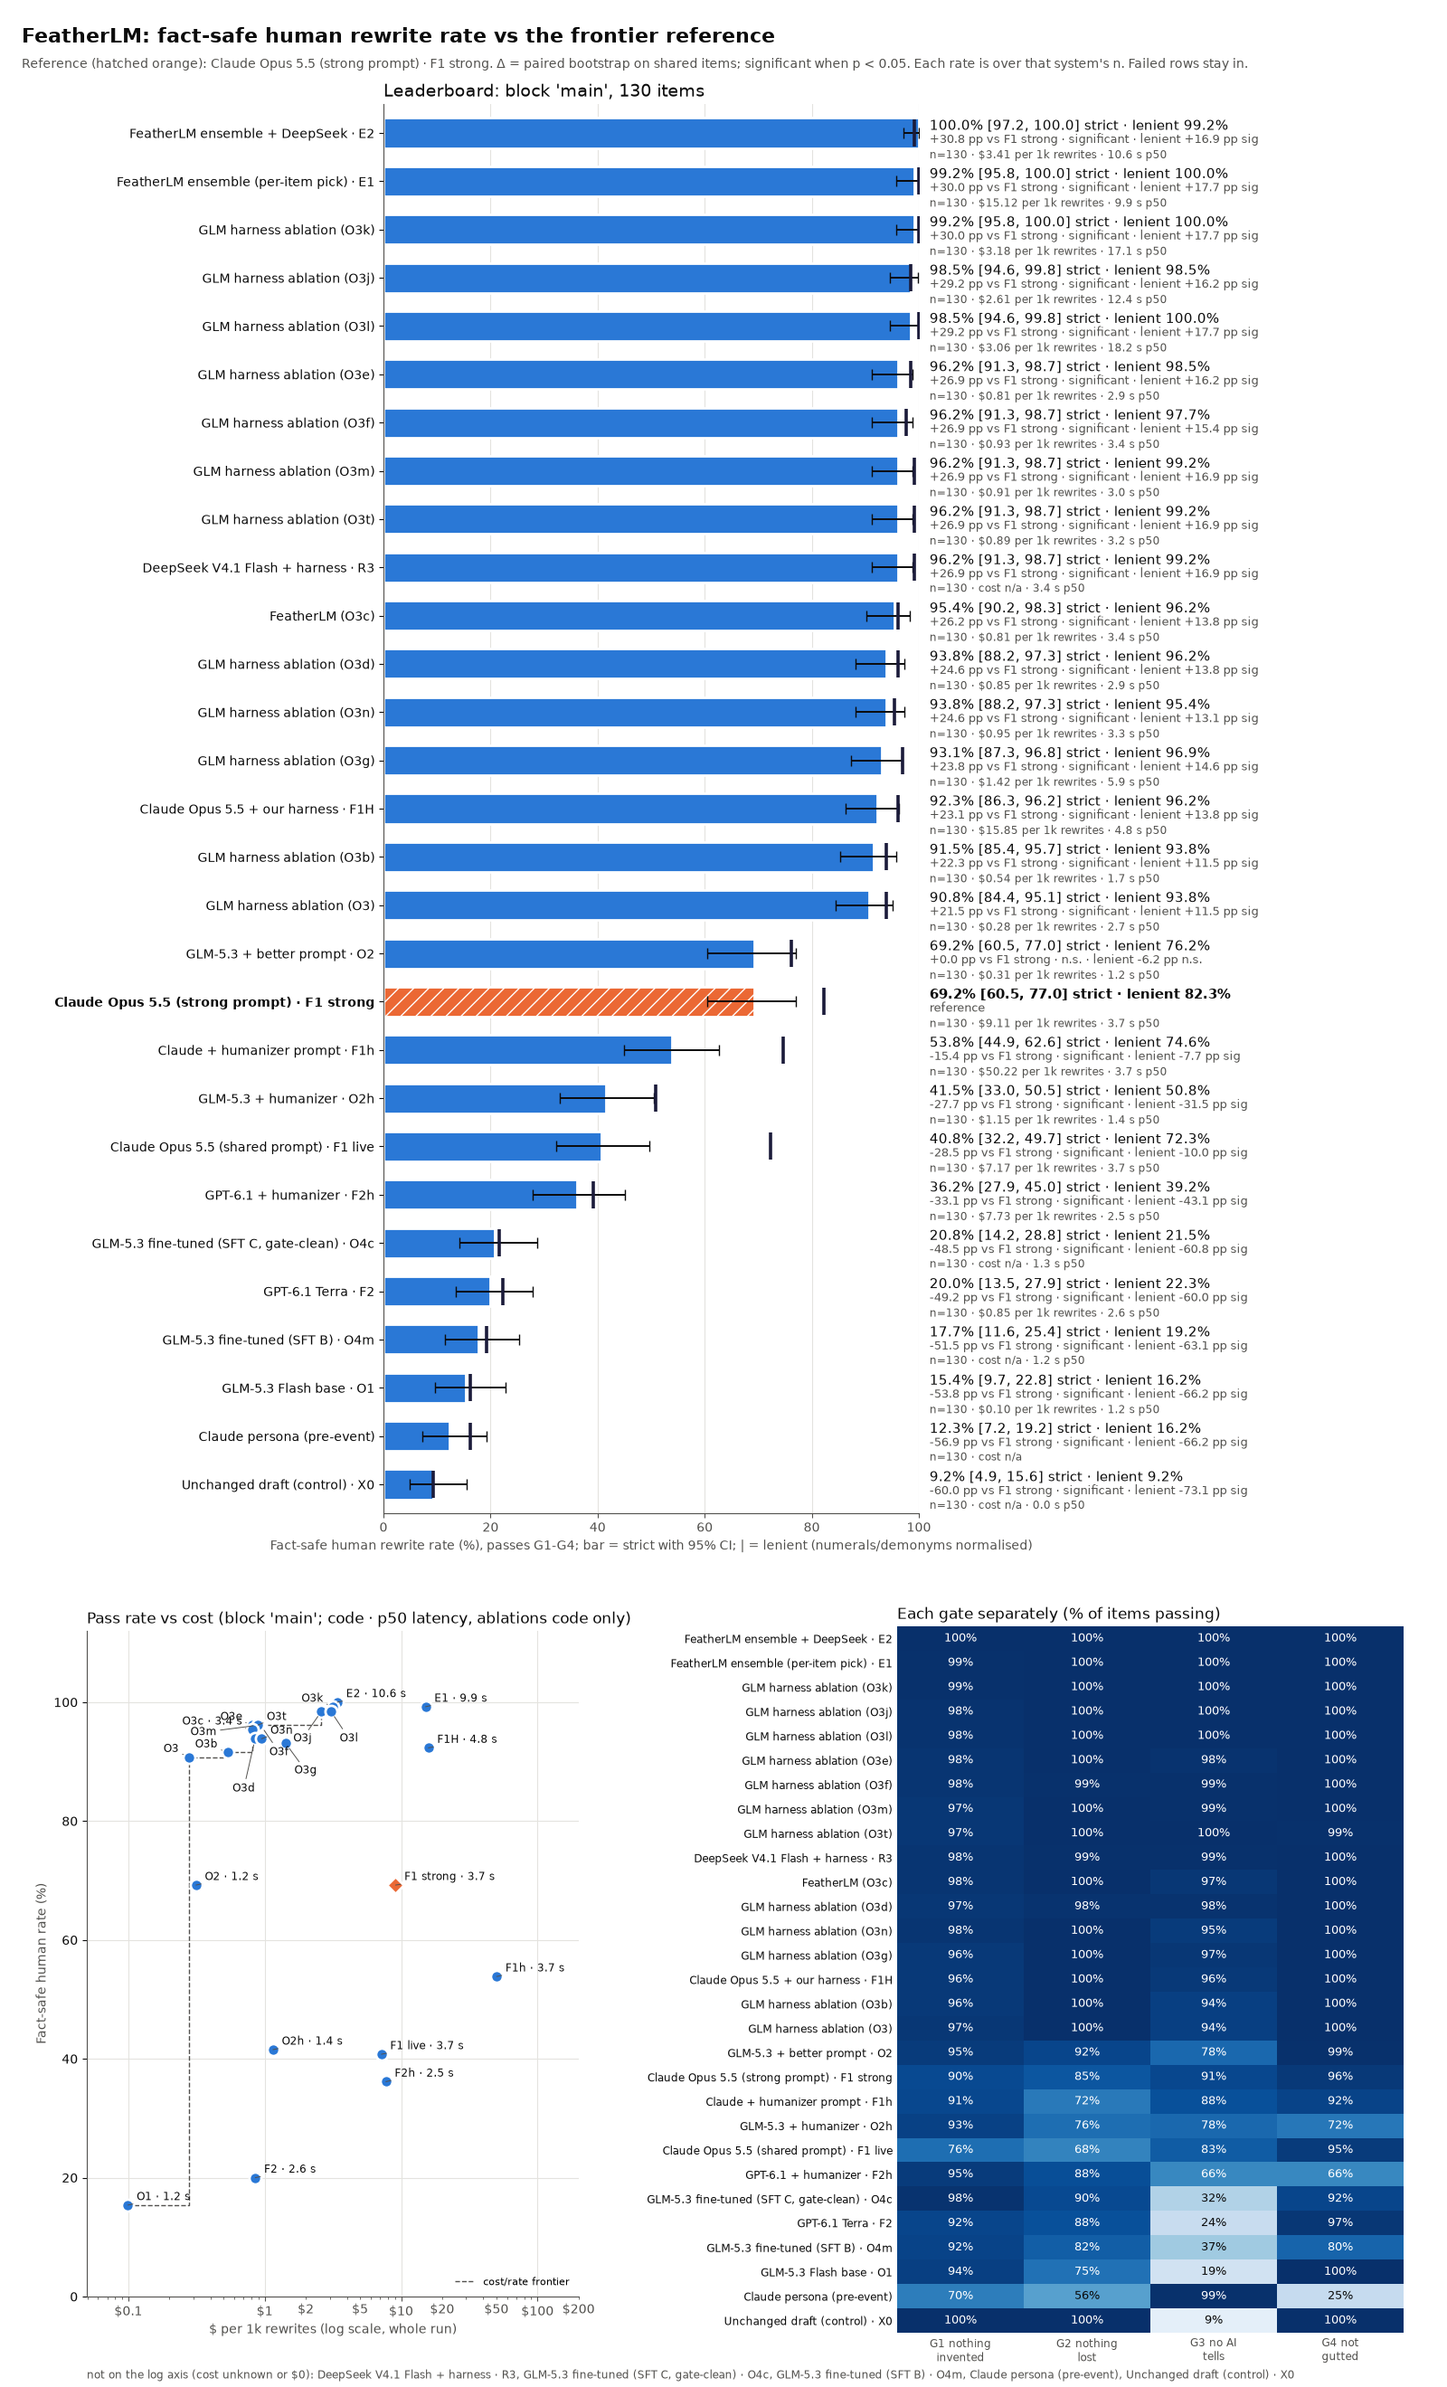
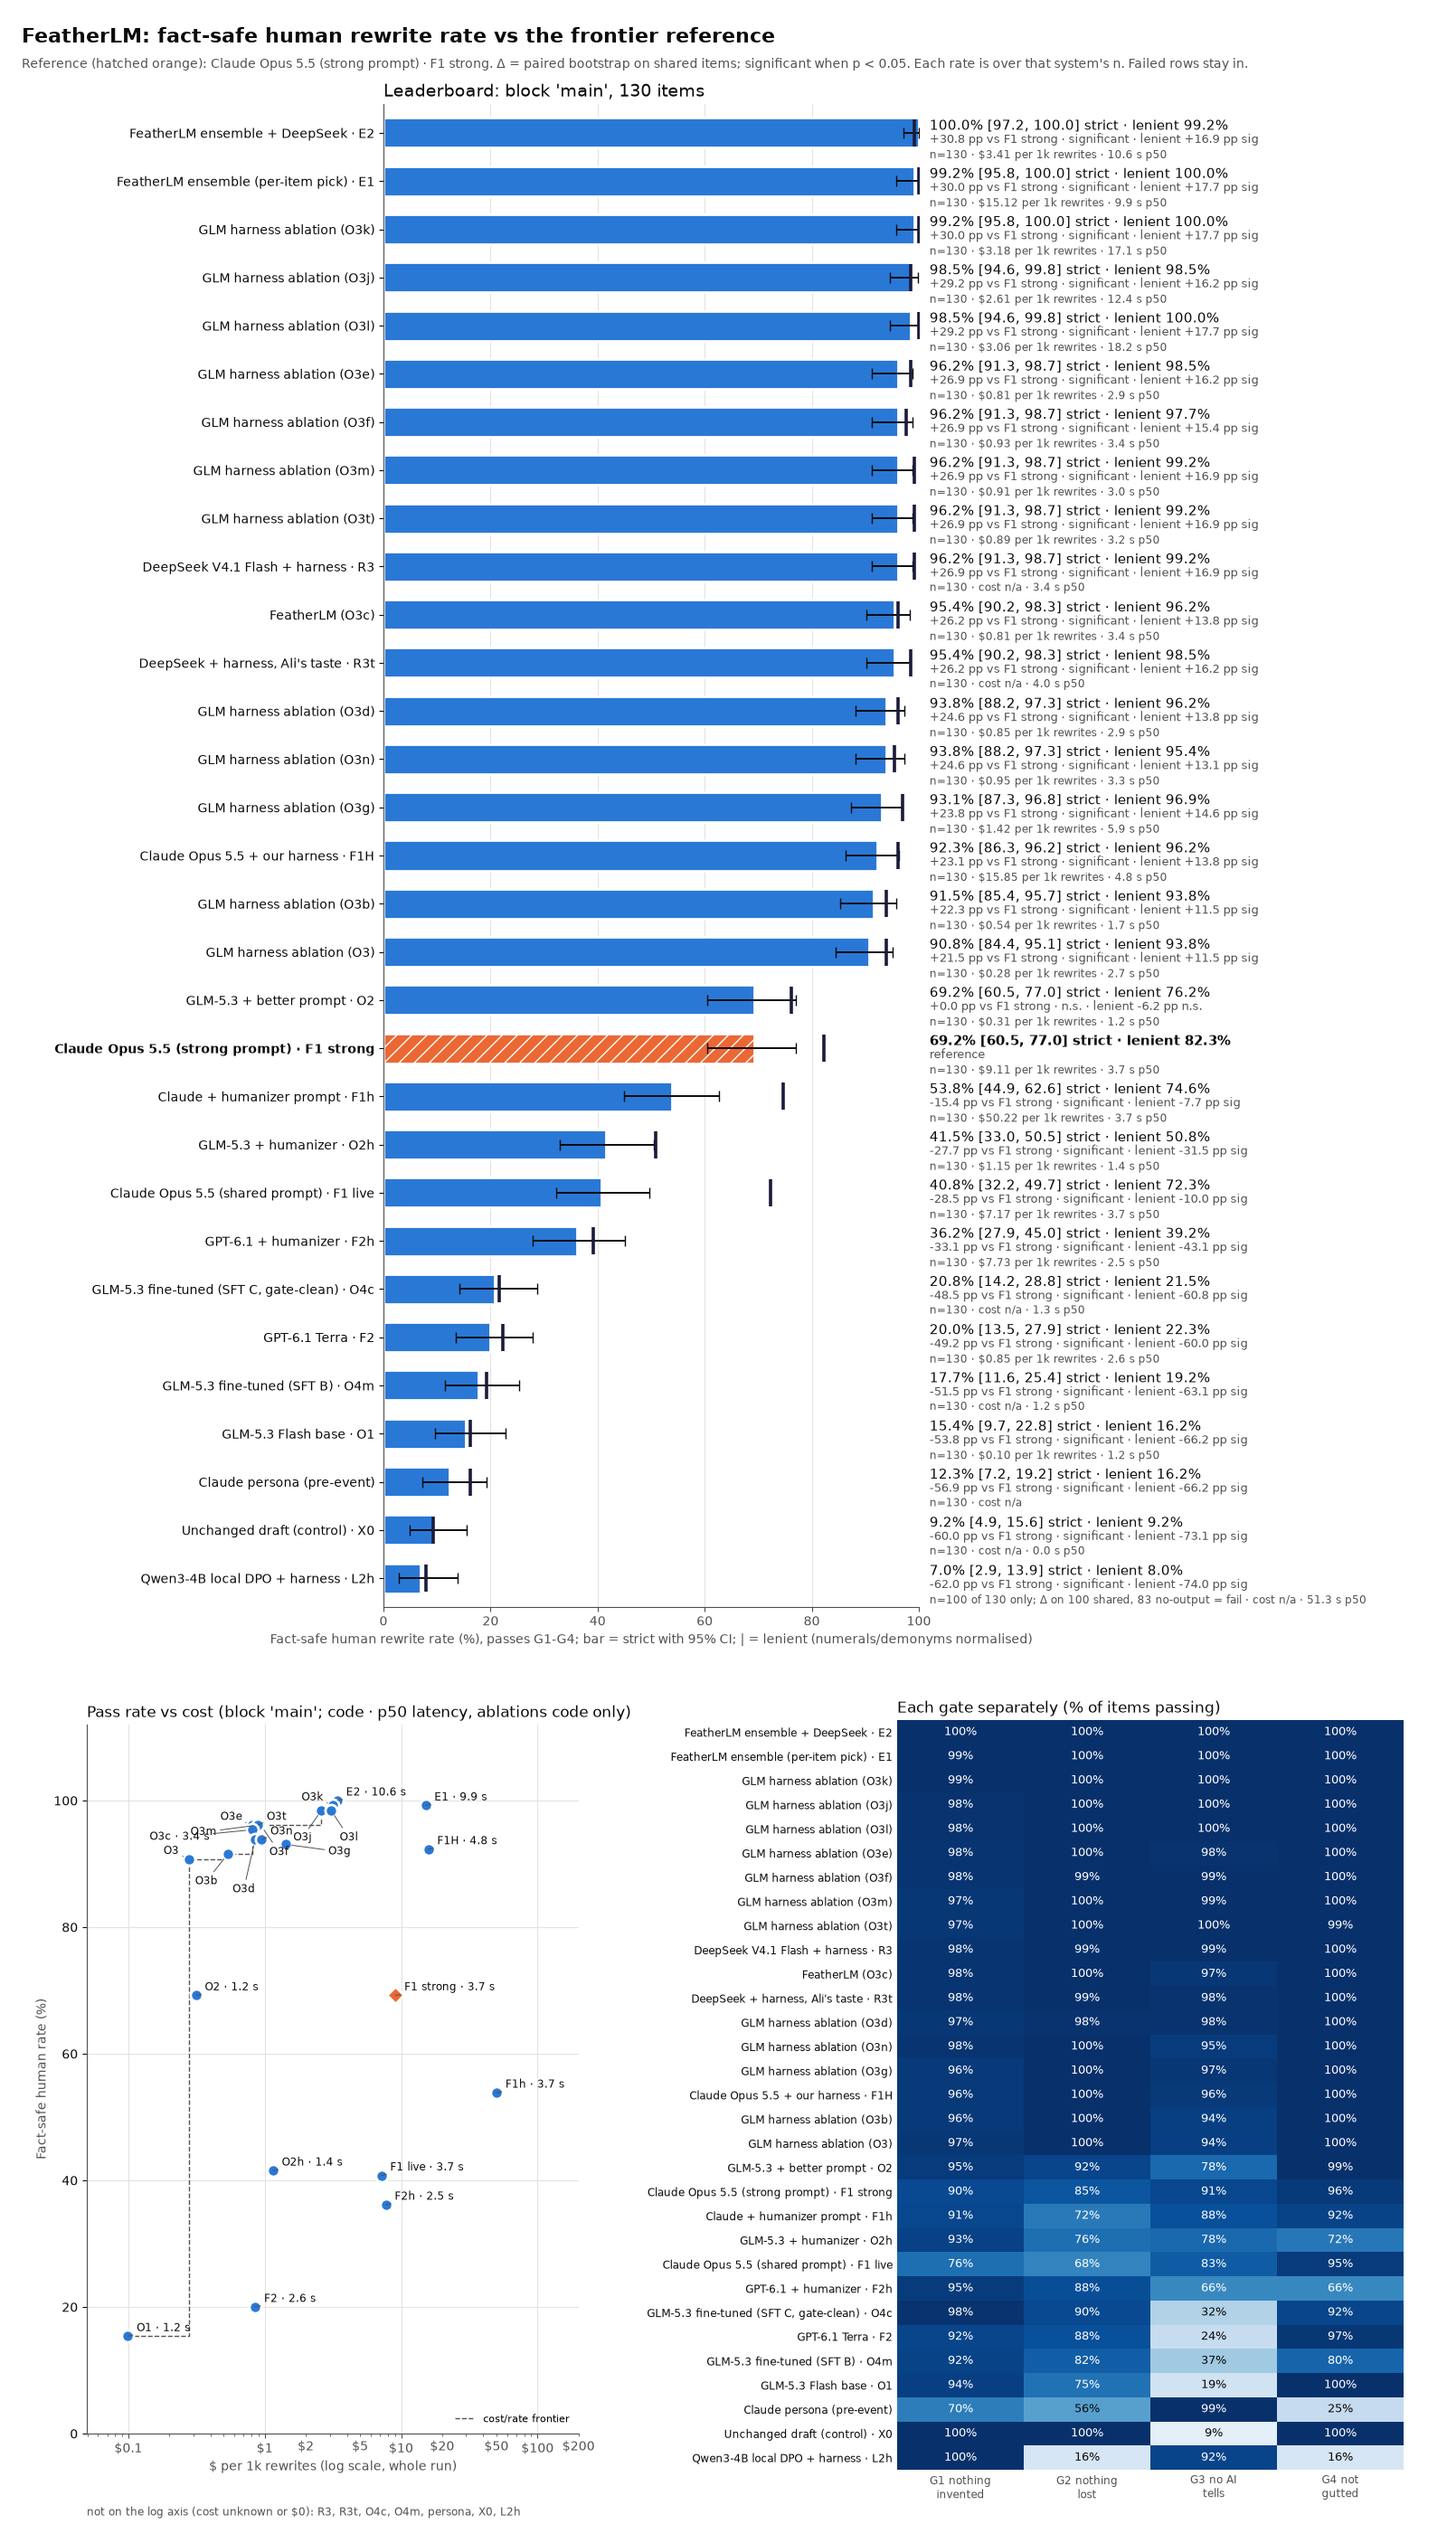
report: leaderboards re-rendered from results 7359164 (adds L2h local Qwen3-4B, 7.0% on 100 of 247); cost footnote lists codes so it fits

diff --git a/hackathon/eval/plot.py b/hackathon/eval/plot.py
@@ -201,6 +201,7 @@ DISPLAY = {
     "O4m_glm_sft_modern": "GLM-5.3 fine-tuned (SFT B)",
     "O4c_glm_sft_clean": "GLM-5.3 fine-tuned (SFT C, gate-clean)",
     "R3t_deepseek_ali_taste": "DeepSeek + harness, Ali's taste",
+    "L2h_qwen3_4b_dpo_harness": "Qwen3-4B local DPO + harness",
     "E1_ensemble": "FeatherLM ensemble (per-item pick)",
     "E2_ensemble_glm_deepseek": "FeatherLM ensemble + DeepSeek",
     "R3_deepseek_harness": "DeepSeek V4.1 Flash + harness",
@@ -294,7 +295,7 @@ def _pareto(ax, points: list[tuple], no_cost: list[str], name: str) -> None:
     ax.grid(color=GRID, zorder=0)
     ax.set_axisbelow(True)
     if no_cost:
-        ax.text(0, 0, "not on the log axis (cost unknown or $0): " + ", ".join(display(x) for x in no_cost), fontsize=8.5,
+        ax.text(0, 0, "not on the log axis (cost unknown or $0): " + ", ".join(short(x) for x in no_cost), fontsize=8.5,
                 transform=offset_copy(ax.transAxes, fig=ax.figure, y=-58, units="points"),
                 color=INK2, va="top", wrap=True)
 
